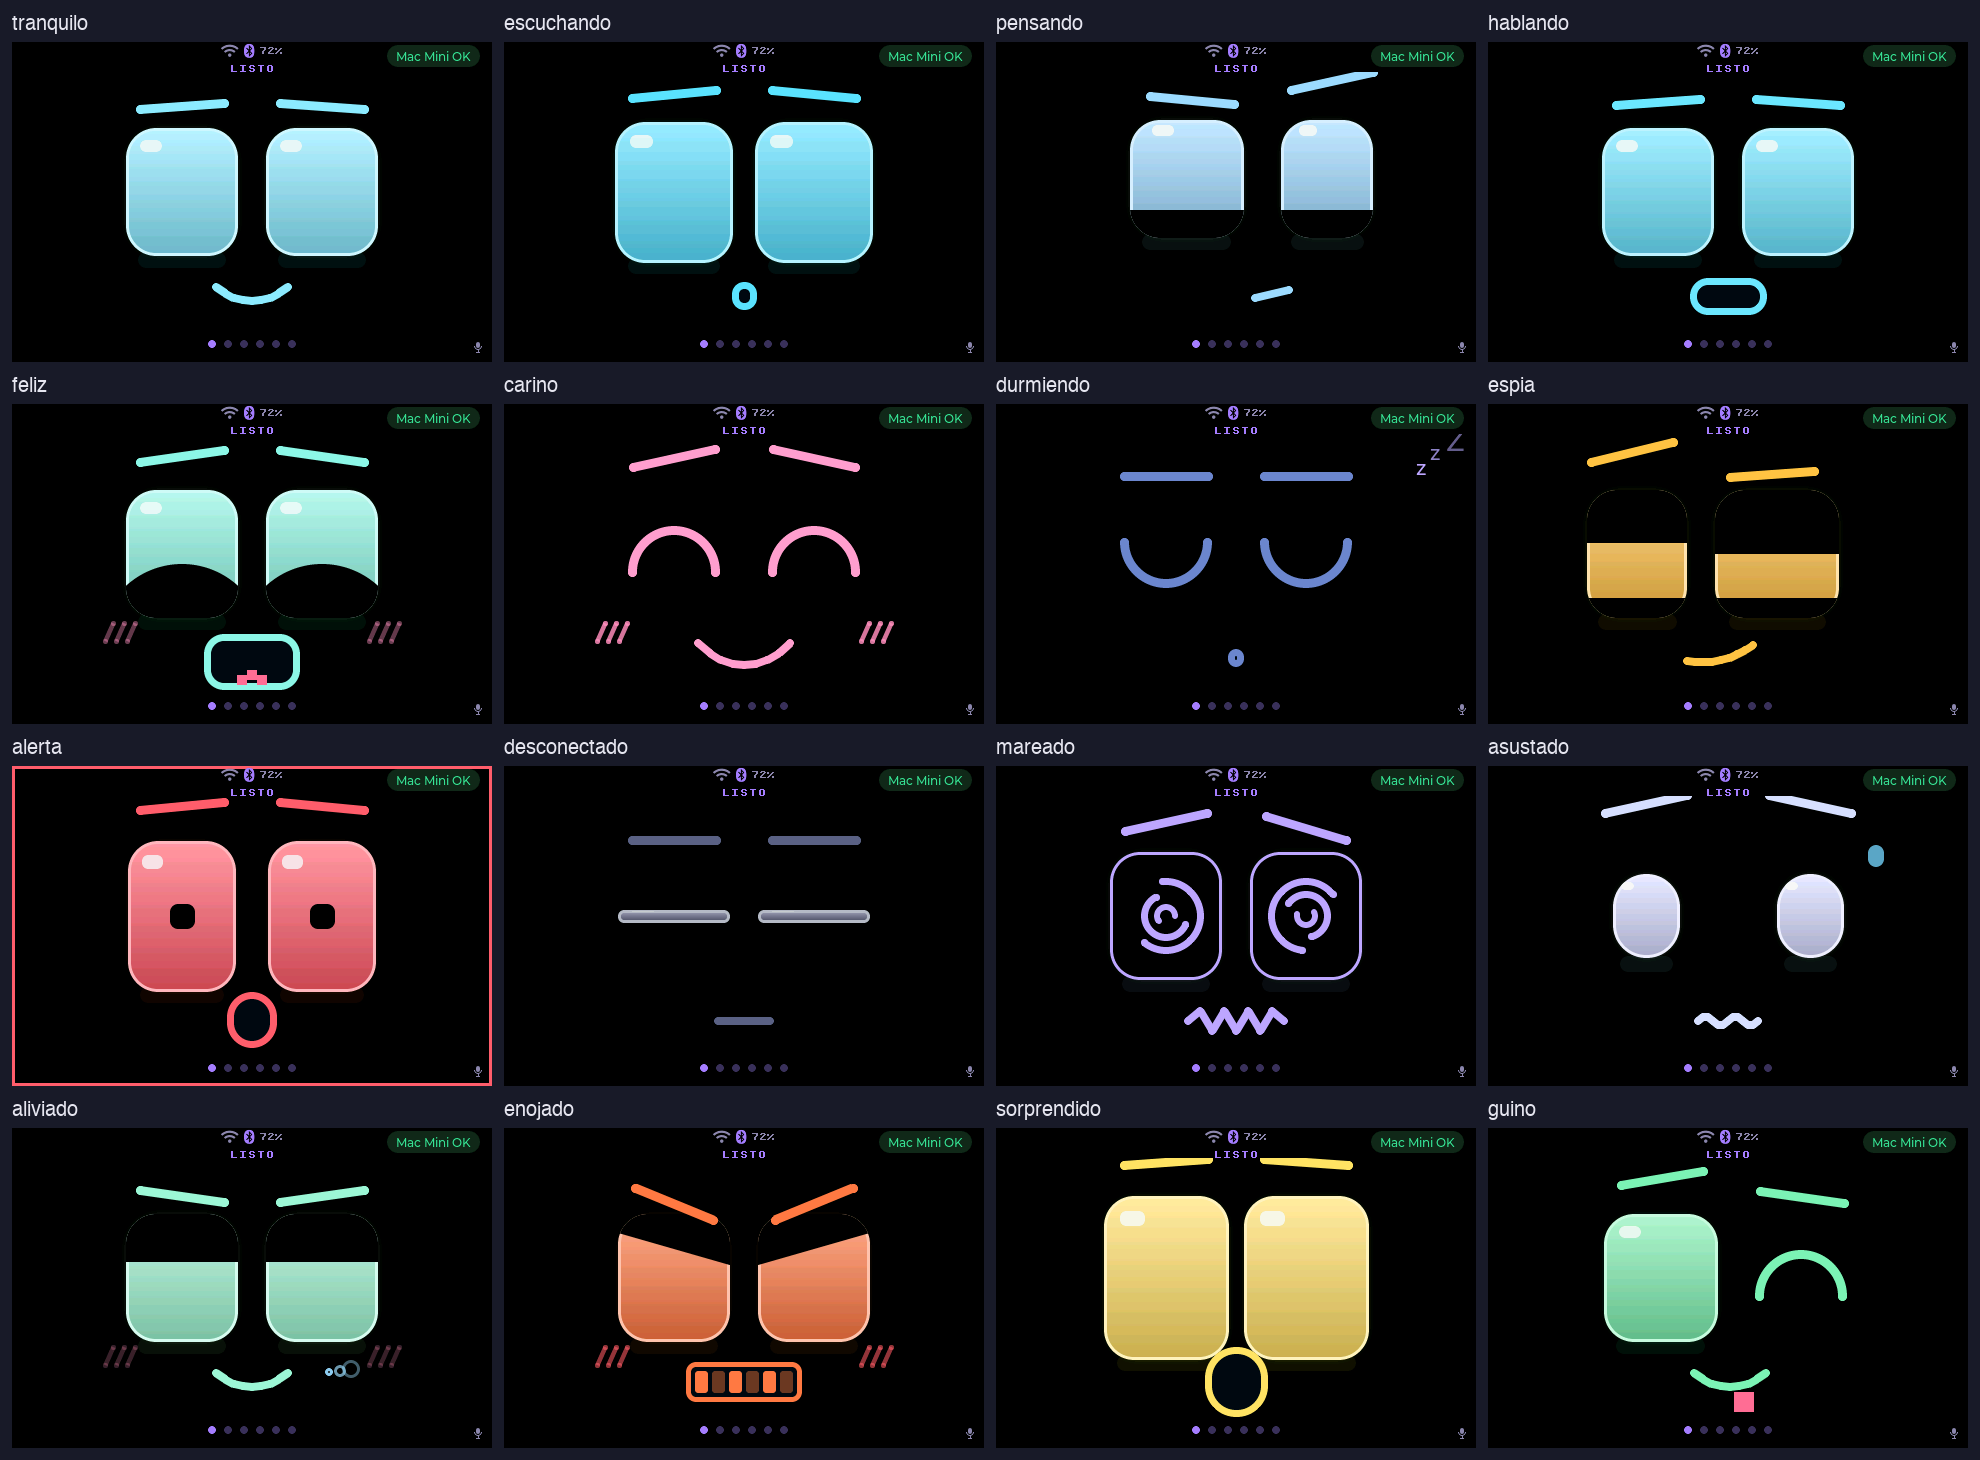
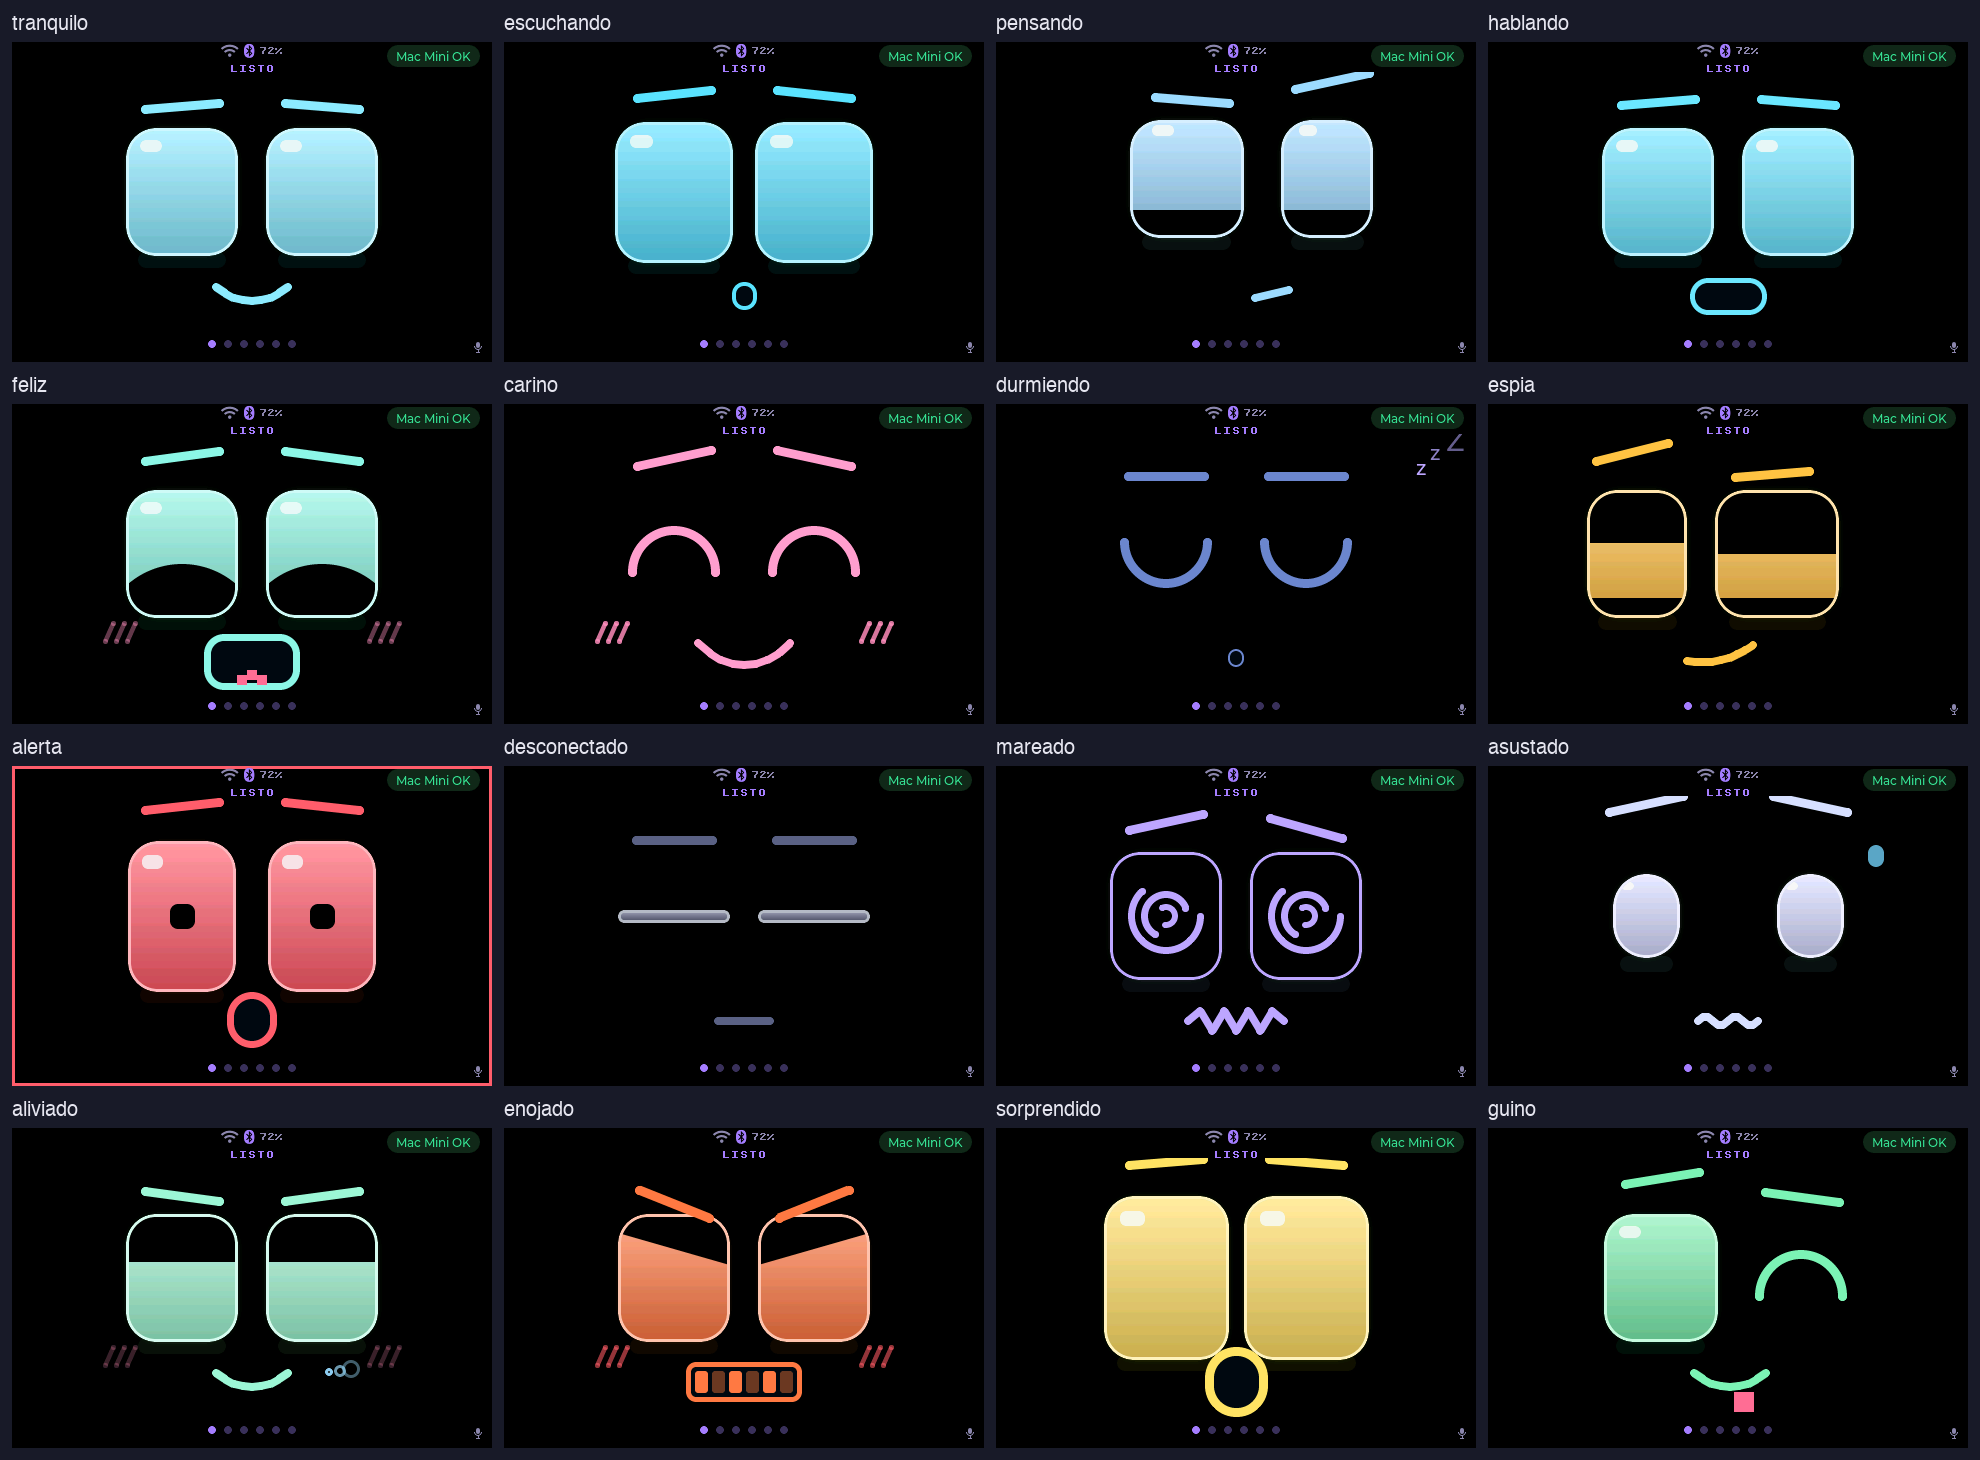
Face v5 review fixes: tight redraw boxes, scaled borders, rim, flash
- Brows and line mouths get boxes of their own bounds, so breathing
  redraws them and not the eyes and glow beside them.
- Ring and pill borders scale with them, as the mockup scales the whole
  element: durmiendo's ring is a thin ring again, the closed pill thinner.
- The eye's rim is drawn after its lids (border_post), framing the eye.
- The flash fires on a landing or knock itself (jolly_imu_flashes(), a
  count in jolly_motion_mood_t, tested), not on entering a mood.
- With Jolly the caption has no dark band over the raised brows.
- A held mood (simulator) no longer spins spirals or rounds the pill, and
  snaps even if set before the face exists.
- Contact sheet re-rendered.

Changed region(s): [[0.5545, 0.5856, 0.6162, 0.6473], [0.647, 0.5856, 0.6778, 0.6473]]

diff --git a/esp32/components/muse/jolly/jolly_eyes.c b/esp32/components/muse/jolly/jolly_eyes.c
@@ -52,8 +52,7 @@ static const int16_t EYE_X[2] = { 170, 310 };
 static const int16_t BLUSH_X[2] = { 108, 372 };
 #define MOUTH_X 240
 #define MOUTH_Y 254
-#define LINE_BOX_W 140             /* a line mouth's box: fixed, so a change redraws only it */
-#define LINE_BOX_H 70
+#define LINE_MARGIN 5              /* a line's box past its points: half its 8 px width, and one */
 
 /* The UI's background is black: lids and the core dot are holes onto it. */
 #define BG 0x000000
@@ -187,6 +186,13 @@ static void border_opa(lv_obj_t *o, lv_opa_t a)
 {
     if (lv_obj_get_style_border_opa(o, 0) != a) {
         lv_obj_set_style_border_opa(o, a, 0);
+    }
+}
+
+static void border_width(lv_obj_t *o, int32_t w)
+{
+    if (lv_obj_get_style_border_width(o, 0) != w) {
+        lv_obj_set_style_border_width(o, w, 0);
     }
 }
 
@@ -341,6 +347,7 @@ static void make_eye(eye_t *e)
     lv_obj_set_style_radius(e->body, EYE_R, 0);
     lv_obj_set_style_clip_corner(e->body, true, 0);   /* lids and highlight follow the corners */
     lv_obj_set_style_border_width(e->body, EYE_RIM, 0);
+    lv_obj_set_style_border_post(e->body, true, 0);   /* the rim over the lids, as the mockup's overflow */
     lv_obj_set_style_bg_grad_dir(e->body, LV_GRAD_DIR_VER, 0);
     lv_obj_set_style_shadow_spread(e->body, -4, 0);
     lv_obj_set_style_shadow_opa(e->body, 115, 0);   /* 45 %, the mockup's glow */
@@ -467,10 +474,8 @@ void jolly_eyes_create(lv_obj_t *parent, int32_t y, void (*on_pet)(void), void (
     }
     for (int i = 0; i < 2; i++) {
         s.brow[i].line = line(s_box, BROW_T, true);
-        lv_obj_set_size(s.brow[i].line, 100, 60);
     }
     s.mline = line(s_box, 8, true);
-    lv_obj_set_size(s.mline, LINE_BOX_W, LINE_BOX_H);
     s.pill = plain(s_box, MOUTH_BG);
     lv_obj_set_style_border_width(s.pill, 7, 0);
     lv_obj_set_style_clip_corner(s.pill, true, 0);
@@ -580,9 +585,6 @@ static void apply_mood(jolly_mood_t m, bool snap)
         s_color_from = s_color_to;
         s_color_to = s_f->color;
         s_color_t0 = s_now ? s_now : 1;
-        if (m == JM_ALIVIADO || m == JM_ENOJADO) {
-            s_flash_t0 = s_now ? s_now : 1;   /* a landing, a knock: the screen flashes */
-        }
     }
     s_next_saccade = s_now;
     for (int i = 0; i < 2; i++) {
@@ -642,6 +644,13 @@ void jolly_eyes_show(jolly_mood_t m)
     s_forced = m < JM_COUNT ? m : JM_COUNT;
     if (s_box && m < JM_COUNT) {
         apply_mood(m, true);
+    }
+}
+
+void jolly_eyes_flash(void)
+{
+    if (s_forced == JM_COUNT) {
+        s_flash_t0 = s_now ? s_now : 1;
     }
 }
 
@@ -740,7 +749,9 @@ static void mouth_targets(void)
             s_t[P_MY] = v.my;
             s_t[P_BYL] = s_t[P_BYR] = -4 - s_talk.lvl * 6;
         }
-        radius(s.pill, v.kind == JV_O ? LV_RADIUS_CIRCLE : 28);
+        if (s_forced == JM_COUNT) {
+            radius(s.pill, v.kind == JV_O ? LV_RADIUS_CIRCLE : 28);
+        }
     } else if (s_mood == JM_FELIZ) {
         s_t[P_MX] = 1;
         s_t[P_MY] = .8f + .12f * sinf((float)s_now / 75);
@@ -867,7 +878,7 @@ static void draw_eye(int i, float gx, float gy, float b, int32_t jx, int32_t jy,
     }
     if (kind == JFE_SPIRAL) {
         static const int32_t BASE[3] = { 0, 120, 240 }, SPAN[3] = { 226, 218, 216 };
-        int32_t spin = (int32_t)((s_now % 1200) * 360 / 1200);
+        int32_t spin = s_forced != JM_COUNT ? 0 : (int32_t)((s_now % 1200) * 360 / 1200);
         for (int k = 0; k < 3; k++) {
             arc_angles(e->spiral[k], ((i ? -spin : spin) + BASE[k] + 720) % 360, 0, SPAN[k]);
             arc_color(e->spiral[k], c);
@@ -915,10 +926,14 @@ static void draw_brow(int i, float gx, float gy, float breath, int32_t jx, int32
     float cx = EYE_X[i] + gx + spr + jx;
     float cy = Y(BROW_Y) + gy * .4f + breath * 2 + (i ? s_x[P_BYR] : s_x[P_BYL]) + jy;
     float rad = (i ? s_x[P_BRR] : s_x[P_BRL]) * 3.14159f / 180;
-    float dx = BROW_W / 2.0f * cosf(rad), dy = BROW_W / 2.0f * sinf(rad);
-    int32_t ox = ri(cx) - 50, oy = ri(cy) - 30;
-    lv_obj_set_pos(b->line, ox, oy);
-    lv_point_precise_t p[2] = { { ri(50 - dx), ri(30 - dy) }, { ri(50 + dx), ri(30 + dy) } };
+    /* The mockup's bar is 84 px with its round ends: the line runs between
+     * the caps' centres. Its box is just the rotated bar plus its half width,
+     * so breathing redraws the brow and not the eye below it. */
+    float half = (BROW_W - BROW_T) / 2.0f;
+    float dx = half * cosf(rad), dy = half * sinf(rad);
+    int32_t hw = ri(fabsf(dx)) + BROW_T / 2 + 1, hh = ri(fabsf(dy)) + BROW_T / 2 + 1;
+    place(b->line, ri(cx) - hw, ri(cy) - hh, 2 * hw, 2 * hh);
+    lv_point_precise_t p[2] = { { hw - ri(dx), hh - ri(dy) }, { hw + ri(dx), hh + ri(dy) } };
     line_points(b->line, b->pts, p, 2);
     line_color(b->line, c);
 }
@@ -951,34 +966,49 @@ static void draw_mouth(float gx, float gy, float breath, int32_t jx, int32_t jy,
         if (mo == JFM_ZIG || mo == JFM_WAVE) {   /* the nervous mouths waver */
             wig = s_forced != JM_COUNT ? 0 : ri(4 * sinf(2 * 3.14159f * (float)(s_now % 900) / 900));
         }
+        /* The box is the line's own bounds plus half its width: a smile's
+         * breathing redraws the smile, not the eyes' glow above it. */
+        int32_t x0 = s.mpts[0].x, x1 = x0, y0 = s.mpts[0].y, y1 = y0;
+        for (int i = 1; i < s.mn; i++) {
+            x0 = s.mpts[i].x < x0 ? s.mpts[i].x : x0;
+            x1 = s.mpts[i].x > x1 ? s.mpts[i].x : x1;
+            y0 = s.mpts[i].y < y0 ? s.mpts[i].y : y0;
+            y1 = s.mpts[i].y > y1 ? s.mpts[i].y : y1;
+        }
+        int32_t m = LINE_MARGIN;
         lv_point_precise_t p[JOLLY_MOUTH_POINTS];
         for (int i = 0; i < s.mn; i++) {
-            p[i].x = s.mpts[i].x + LINE_BOX_W / 2;
-            p[i].y = s.mpts[i].y + LINE_BOX_H / 2;
+            p[i].x = s.mpts[i].x - x0 + m;
+            p[i].y = s.mpts[i].y - y0 + m;
         }
-        lv_obj_set_pos(s.mline, ri(cx) - LINE_BOX_W / 2 + wig, ri(cy) - LINE_BOX_H / 2);
+        place(s.mline, ri(cx) + x0 - m + wig, ri(cy) + y0 - m, x1 - x0 + 2 * m, y1 - y0 + 2 * m);
         line_points(s.mline, s.mkeep, p, s.mn);
         line_color(s.mline, c);
     } else if (mo == JFM_PILL) {
         float sx = s_x[P_MX], sy = s_x[P_MY];
         int32_t w = ri(96 * sx), h = ri(56 * sy);
+        int32_t bw = ri(7 * fminf(sx, sy));
+        bw = bw < 2 ? 2 : bw;
         w = w < 20 ? 20 : w;
-        h = h < 16 ? 16 : h;
+        h = h < 9 ? 9 : h;
+        border_width(s.pill, bw);
         /* Scaled about 50 % / 30 %, as the mockup's transform-origin. */
         int32_t top = ri(cy - 24 + 16.8f * (1 - sy));
         place(s.pill, ri(cx) - w / 2, top, w, h);
         border_color(s.pill, c);
         if (s_f->fx & JFX_TONGUE) {
-            int32_t iw = w - 14, ih = h - 14;
+            int32_t iw = w - 2 * bw, ih = h - 2 * bw;
             for (int i = 0; i < 3; i++) {
                 lv_obj_set_pos(s.tongue[i], iw / 2 - 15 + i * 10, ih - 3 - 10 + (i == 1 ? 0 : 5));
             }
         }
     } else if (mo == JFM_RING) {
         float os = s_x[P_OS] * (s_mood == JM_DURMIENDO ? 1 + breath * .14f : 1);
-        int32_t w = ri(50 * os), h = ri(56 * os);
-        w = w < 16 ? 16 : w;
-        h = h < 16 ? 16 : h;
+        int32_t w = ri(50 * os), h = ri(56 * os), bw = ri(7 * os);
+        bw = bw < 2 ? 2 : bw;
+        w = w < 8 ? 8 : w;
+        h = h < 9 ? 9 : h;
+        border_width(s.ring, bw);
         place(s.ring, ri(cx) - w / 2, ri(cy) - h / 2, w, h);
         border_color(s.ring, c);
     } else if (mo == JFM_GRILL) {
@@ -1081,7 +1111,7 @@ void jolly_eyes_tick(int64_t now_ms, float level)
     }
     jolly_mood_t want = s_forced != JM_COUNT ? s_forced : s_pending;
     if (want != s_mood) {
-        apply_mood(want, false);
+        apply_mood(want, s_forced != JM_COUNT);   /* a picture snaps, life springs */
     }
     schedule();
     mouth_targets();

diff --git a/esp32/components/muse/muse_ui.c b/esp32/components/muse/muse_ui.c
@@ -585,6 +585,12 @@ static void jolly_tick(muse_mode_t mode, float voice_level)
         .surprise_until_ms = s_surprise_until_ms, .wink_until_ms = s_wink_until_ms,
     };
     jolly_eyes_set_mood(jolly_mood_pick(&in));
+    static uint32_t s_flashes;
+    uint32_t flashes = jolly_imu_flashes();
+    if (flashes != s_flashes) {
+        jolly_eyes_flash();   /* a landing or a knock, whatever the mood shows */
+        s_flashes = flashes;
+    }
     jolly_eyes_tick(now, voice_level);   /* the reply's level moves the talking mouth */
 }
 #endif
@@ -1142,9 +1148,11 @@ static void build_screen(void)
         lv_obj_set_style_bg_opa(s_caption_lbl, LV_OPA_70, 0);
         lv_label_set_long_mode(s_caption_lbl, LV_LABEL_LONG_MODE_DOTS);
 #if CONFIG_MUSE_JOLLY
-        /* Jolly's face v5 reaches down to the dots: the band goes under the
-         * status line instead, where only a startled brow ever rises. */
+        /* Jolly's face v5 reaches down to the dots: the caption goes under the
+         * status line instead. Raised brows (escuchando, hablando) reach into
+         * it, so it has no dark band: the text alone, over them. */
         lv_obj_align(s_caption_lbl, LV_ALIGN_TOP_MID, 0, 30);
+        lv_obj_set_style_bg_opa(s_caption_lbl, LV_OPA_TRANSP, 0);
 #else
         /* Touch screens need the caption above the navigation dots too. */
         lv_obj_align(s_caption_lbl, LV_ALIGN_BOTTOM_MID, 0, (s_tall || s_tv) ? -30 : -3);

diff --git a/esp32/tests/jolly/test_motion.c b/esp32/tests/jolly/test_motion.c
@@ -136,6 +136,14 @@ static void moods(void)
     assert(jolly_motion_mood_now(&s, 20000 + JOLLY_ENOJADO_MS) == JM_DURMIENDO);
     jolly_motion_mood_on(&s, JME_FACE_UP, 30000);
     assert(jolly_motion_mood_now(&s, 30000) == JM_TRANQUILO);
+    /* Face v5 flashes the screen on the landing and the knock themselves,
+     * whatever mood shows: one count each, nothing for the others. */
+    assert(s.flashes == 2);
+    jolly_motion_mood_on(&s, JME_SHAKE, 31000);
+    jolly_motion_mood_on(&s, JME_FREEFALL, 32000);
+    assert(s.flashes == 2);
+    jolly_motion_mood_on(&s, JME_KNOCK, 33000);
+    assert(s.flashes == 3);
 }
 
 static void arbiter(void)

diff --git a/esp32/components/muse/jolly/jolly_motion.c b/esp32/components/muse/jolly/jolly_motion.c
@@ -164,6 +164,7 @@ void jolly_motion_mood_init(jolly_motion_mood_t *s)
     s->mood = JM_TRANQUILO;
     s->until = 0;
     s->startled_until = 0;
+    s->flashes = 0;
     s->face_down = false;
 }
 
@@ -182,10 +183,12 @@ void jolly_motion_mood_on(jolly_motion_mood_t *s, jolly_motion_ev_t ev, int64_t 
     case JME_LAND:
         s->mood = JM_ALIVIADO;
         s->until = now + JOLLY_ALIVIADO_MS;
+        s->flashes++;
         break;
     case JME_KNOCK:
         s->mood = JM_ENOJADO;
         s->until = now + JOLLY_ENOJADO_MS;
+        s->flashes++;
         break;
     case JME_FACE_DOWN:
         s->face_down = true;

diff --git a/esp32/components/muse/jolly/jolly_eyes.h b/esp32/components/muse/jolly/jolly_eyes.h
@@ -57,6 +57,9 @@ void jolly_eyes_set_mood(jolly_mood_t m);
  * simulator's contact sheet); JM_COUNT gives it back to jolly_eyes_set_mood. */
 void jolly_eyes_show(jolly_mood_t m);
 
+/* A white flash over the face (a landing, a knock: jolly_imu_flashes()). */
+void jolly_eyes_flash(void);
+
 /* A pat in the middle of the eyes, as a tap there (benches, the simulator). */
 void jolly_eyes_tap(void);
 

diff --git a/esp32/components/muse/jolly/jolly_motion.h b/esp32/components/muse/jolly/jolly_motion.h
@@ -68,6 +68,7 @@ typedef struct {
     jolly_mood_t mood;             /* the passing one */
     int64_t until;
     int64_t startled_until;        /* a shake's sorprendido, before its mareado */
+    uint32_t flashes;              /* landings and knocks so far: face v5 flashes on each */
     bool face_down;                /* under it: durmiendo */
 } jolly_motion_mood_t;
 

diff --git a/esp32/components/muse/jolly/jolly_imu.h b/esp32/components/muse/jolly/jolly_imu.h
@@ -41,6 +41,10 @@ bool jolly_imu_start(void *bus);
  * for none, or without an IMU. */
 jolly_mood_t jolly_imu_mood(int64_t now_ms);
 
+/* How many landings and knocks so far (0 without an IMU): a change is one to
+ * flash the screen for, whatever mood shows. */
+uint32_t jolly_imu_flashes(void);
+
 bool jolly_imu_console_command(const char *line);
 
 #ifdef __cplusplus

diff --git a/esp32/components/muse/jolly/jolly_imu.c b/esp32/components/muse/jolly/jolly_imu.c
@@ -149,6 +149,17 @@ bool jolly_imu_start(void *bus)
     return true;
 }
 
+uint32_t jolly_imu_flashes(void)
+{
+    if (!s_present) {
+        return 0;
+    }
+    taskENTER_CRITICAL(&s_mux);
+    uint32_t n = s_mood.flashes;
+    taskEXIT_CRITICAL(&s_mux);
+    return n;
+}
+
 jolly_mood_t jolly_imu_mood(int64_t now_ms)
 {
     if (!s_present) {

diff --git a/esp32/simulator/src/sim_jolly.c b/esp32/simulator/src/sim_jolly.c
@@ -175,6 +175,11 @@ bool jolly_client_series(bool day, jolly_series_t *s)
 /* No IMU in the simulator. */
 #include "jolly/jolly_imu.h"
 
+uint32_t jolly_imu_flashes(void)
+{
+    return 0;
+}
+
 jolly_mood_t jolly_imu_mood(int64_t now_ms)
 {
     (void)now_ms;

diff --git a/esp32/components/muse/jolly/README.md b/esp32/components/muse/jolly/README.md
@@ -101,7 +101,8 @@ box starts below the status line, at y 30).
   out the corner (guiño).
 - **Extras:** "///" blush, hearts (cariño, and a pat), zzz, a sweat drop
   (asustado), sigh puffs (aliviado), the alert's pulsing screen border, and a
-  white flash when aliviado or enojado come in (a landing, a knock).
+  white flash on a landing or a knock themselves (`jolly_imu_flashes()`),
+  whatever mood is showing then.
 
 | Mood | Eyes | Mouth | Extras |
 |---|---|---|---|
@@ -140,8 +141,9 @@ under 0.6, ancha above; a loud syllable rounds into an O about one time in
 six.
 
 **Redraw budget.** Only what changed redraws: every setter compares first (a
-style set or hiding a hidden object redraws even when nothing changes), lines
-and the mouth have fixed boxes, and the glow is dropped while an eye moves (it
+style set or hiding a hidden object redraws even when nothing changes), each
+brow's and line mouth's box is just its own bounds, clear of the eyes and
+their glow, and the glow is dropped while an eye moves (it
 returns after 300 ms still). The alert's border is four 3 px strips, so its
 pulse redraws them and not the screen, in four steps per second; the flash
 steps four times in 260 ms. Between saccades and blinks only the breathing
@@ -158,11 +160,12 @@ just cleared (feliz, 4 s), quiet hours (durmiendo), else tranquilo.
 rotation by gaze) and the frame's shaking and tossing, which only show the
 sensors in a browser. The background stays the UI's black, so the lids and
 core dot are black, and the eye's shadow is a faint reflection in the mood's
-colour instead of a darker patch. The gradient has two stops
+colour instead of a darker patch. The eye's rim is drawn after its lids
+(`border_post`), so it frames the whole eye as the mockup's does. The gradient has two stops
 (`LV_GRADIENT_MAX_STOPS` is 2), light top to dark bottom. Feliz's pill has one
 radius (20) where the mockup rounds its bottom more. With Jolly, Muse's caption
-band moves under the status line, since the face now reaches the page dots, and
-it stays hidden while it's empty.
+moves under the status line, since the face now reaches the page dots, without
+its dark band (raised brows reach into it), and stays hidden while it's empty.
 
 ## Touch and motion
 
